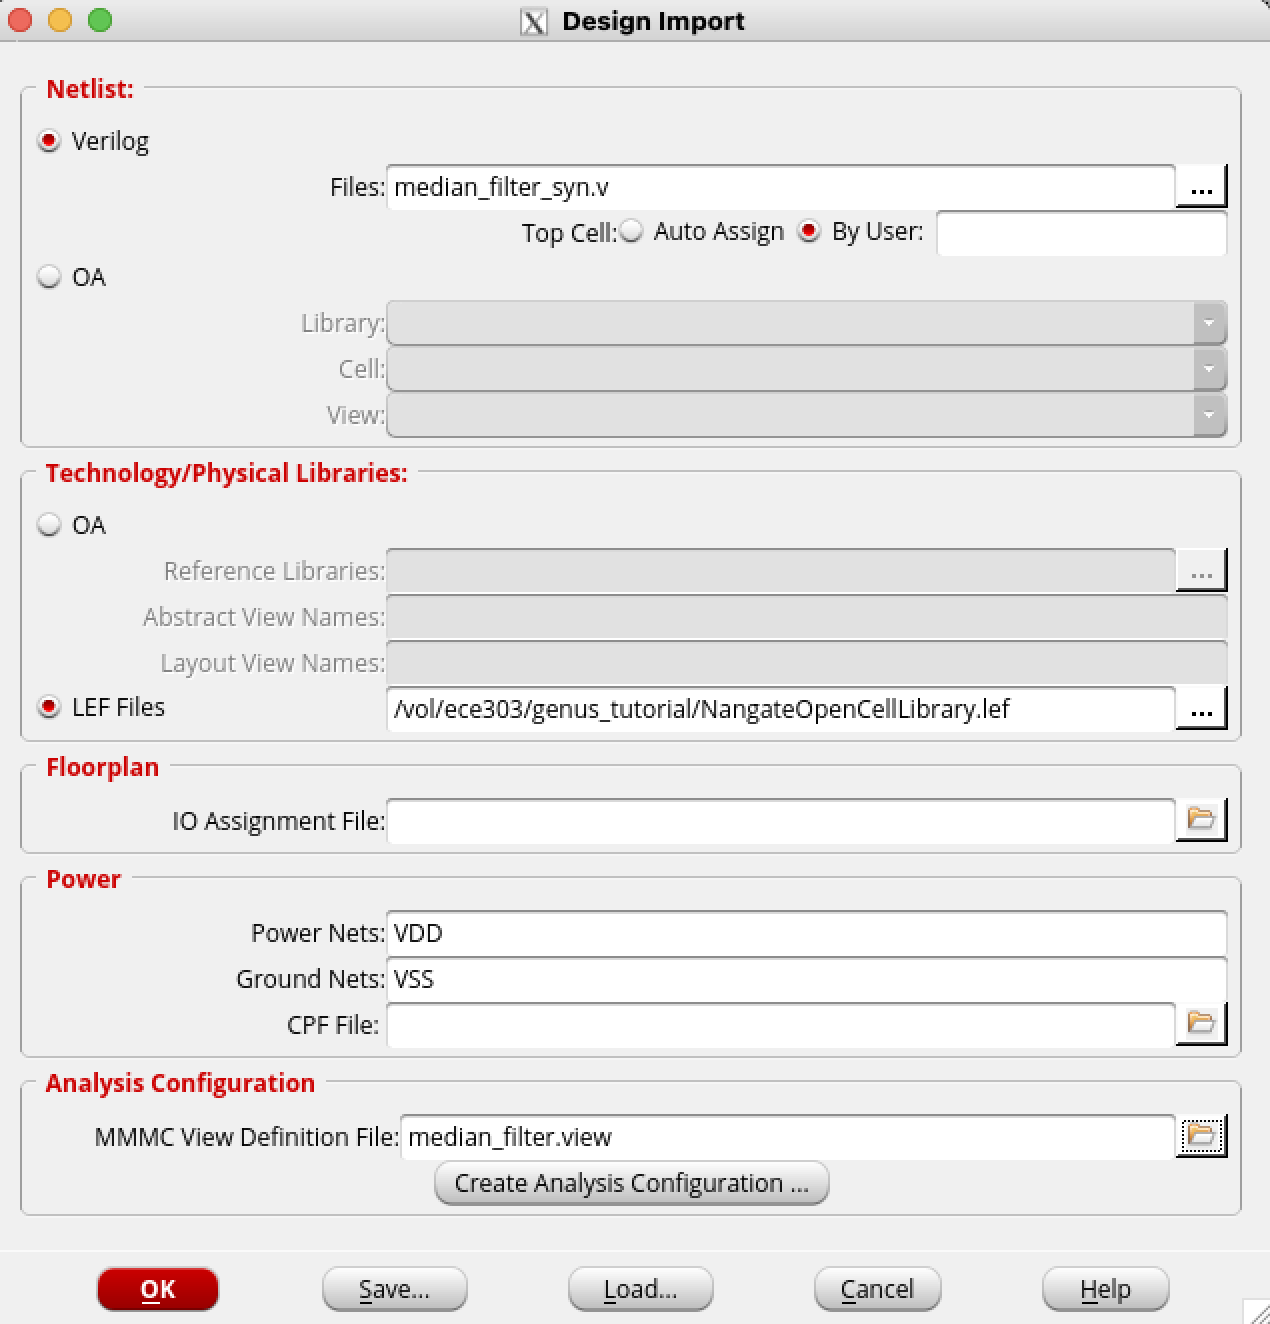
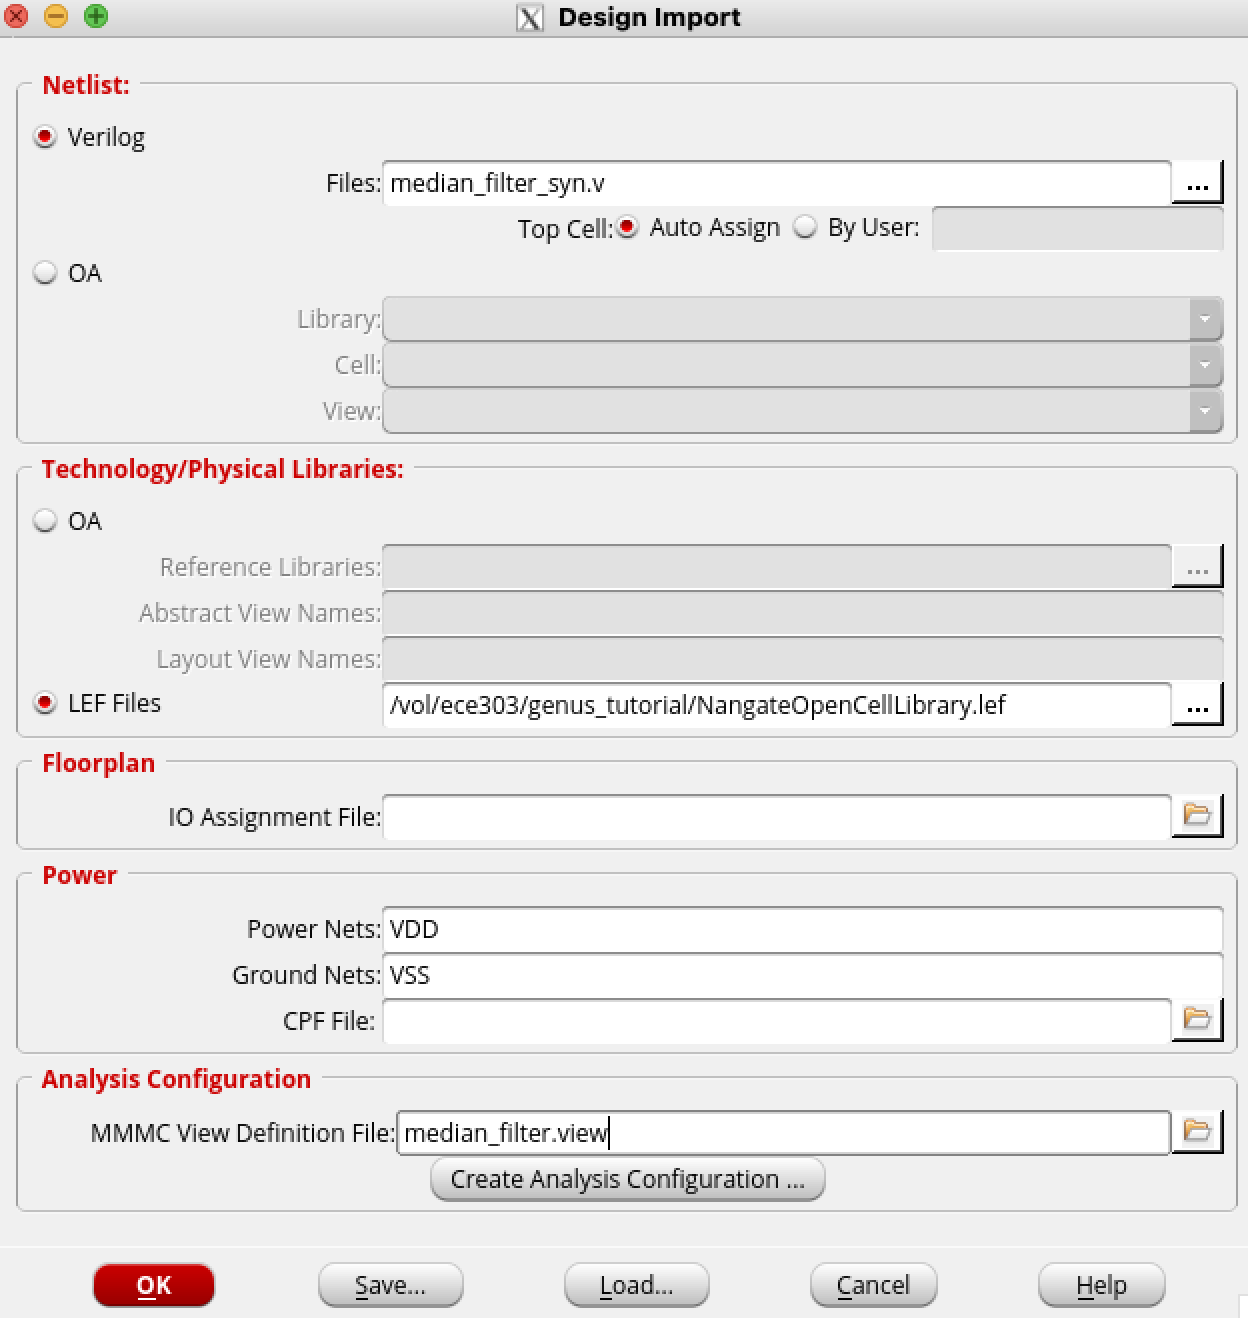
README: touchup

diff --git a/README.md b/README.md
@@ -14,9 +14,9 @@ By default, we have this directory structure
 ├── median_filter/
 │   ├── Backend/
 │   │   ├── median_filter_syn.v
-│   │   └── median_pixel_filter.view
+│   │   └── median_filter.view
 │   └── Frontend/
-│       ├── median_pixel_filter.sdc
+│       ├── median_filter.sdc
 │       └── Synthesis/
 │           └── median_filter_syn.v
 └── README.md
@@ -26,12 +26,12 @@ directory as follows. (get rid of the `_syn` files).
 ```
 ./median_filter/
 ├── Backend/
-│   └── median_pixel_filter.view
+│   └── median_filter.view
 └── Frontend/
     ├── median_filter_v2.sv
     ├── median_kernel_calc.sv
     ├── pixel_pkg.sv
-    ├── median_pixel_filter.sdc
+    ├── median_filter.sdc
     └── Synthesis/
 ```
 Where `.` is your present working directory. Note that everything with a `/` after it is a directory.
@@ -204,7 +204,7 @@ module my_module(something_i, something_o, VDD, VSS);
 
 Note that there are other ways to do power and ground definition, but this is what we'll go with for now.
 ### View file
-Before we go any further, we're going to need to make a view file. This is a multi-mode multi-corner file that specifies a lot of testing-related things, specifically related to testing under different operational states and physical conditions (as chip timing depends on many factors such as voltage supplied and temperature). MMMC means we test against multiple of these factors at the same time. In this file we create RC corners which define multipliers that degrade chip performance by modifying the resistance and capacitance of extracted parasitics. We also define operating conditions which specify process (manufacturing variation which affects switching speed), voltage, and termperature which all affect chip performance. We'll name ours `median_filter.view`
+Before we go any further, we're going to need to make a view file. This is a multi-mode multi-corner file that specifies a lot of testing-related things, specifically related to testing under different operational states and physical conditions (as chip timing depends on many factors such as voltage supplied and temperature). MMMC means we test against multiple of these factors at the same time. In this file we create RC corners which define multipliers that degrade chip performance by modifying the resistance and capacitance of extracted parasitics. We also define operating conditions which specify process (manufacturing variation which affects switching speed), voltage, and temperature which all affect chip performance. We'll name ours `median_filter.view`
 ```tcl
 # Version:1.0 MMMC View Definition File
 # Do Not Remove Above Line
@@ -272,8 +272,17 @@ To import your design
 	- Ground Nets: VSS
  - Set the MMMC view file to the view file we just created
 
+Your dialog window should look like this
+![DesignImport](./images/design_import.png)
 
 From there you should be good to click OK
+
+If you are resuming from a previous session
+- File -> Restore Design
+- Restore Design File: SOMETHING.enc
+	- the enc file is the output that you get whenever you run `saveDesign`
+
+![DesignRestore](./images/design_restore.png)
 ### Configuration
 First, we need to set our design mode. Because we are using a 45 nanometer PDK
 ```tcl
@@ -322,21 +331,22 @@ globalNetConnect VSS -type tielo
 Now, let's edit our pin locations in the GUI
 - Edit -> Pin Editor
 - Ex. allocate output signal by setting
-	- Side/Edge: Right,
+	- Spread: from Center (SET THIS FIRST)
+	- Side/Edge: Right
 	- Layer M3 layer
-	- Spread: from Center,
-	- Spacing: 2 micron
+	- Spacing: 20 micron (it might change your number a bit, just make sure that the pins are actually well spaced out in the final design. You could also just pick a different number, so long as your pins aren't excessively bunched up)
 	- Use: SIGNAL
-- Ex. allocate input signals by setting
+- Ex. allocate input signals (including clock and reset) by setting
+	- Spread: from Center
 	- Side/Edge: Left
 	- Layer M3 layer,
-	- Spread: from Center
-	- Spacing 2 micron
+	- Spacing 20 micron (same as before)
 	- Use: SIGNAL
 - Power and ground pins allocated on top and bottom (M4 layer)
 	- Location: Spread (Type: From Center)
-	- Spacing 0.28
-Be sure to check your terminal for error messages. You may see some errors regarding negative values being deprecated. In which case, set the Start to end Direction to the opposite of whatever it was (usually this means setting it to Counterclockwise)
+	- Spacing: Doesn't really matter, just leave at default
+Your window should look something like this when doing your input pins
+![PinAssignment](./images/pin_assignment.png)
 
 With our floorplan now done, let's save our design
 ```tcl
@@ -504,16 +514,33 @@ create_ccopt_clock_tree_spec
 # send it :)
 ccopt_design
 ```
+NOTE: THIS IS OPTIONAL AND TAKES A MINUTE TO LOAD SO SKIP IT IF YOU ARE SHORT ON TIME
 
-Now open the Clock Browser from the GUI.  Click OK and you will see a window with the generated clock tree in the design. From here, let's do some checking, optimizing, and then save our work
+
+Now open the Clock Browser from the GUI. (Clock->CCopt Clock Tree Debugger) Click OK on the next popup window and you will see a window with the generated clock tree in the design.
+![ClockTree](./images/clock_tree.png)
+
+BACK TO THINGS WE ACTUALLY NEED TO DO
+
+From here, let's do some checking, optimizing, and then save our work
 ```
-checkPlace alu.checkPlace
+# Outputs a file called mpf.checkPlace that details any placement violations we might have
+checkPlace mpf.checkPlace
+
+# Run timing, this time post clock tree synthesis
 timeDesign -postCTS -numPaths 200
+# Same thing for hold
 timeDesign -postCTS -hold -numPaths 200
+
+# Optimization pass
 optDesign -postCTS -numPaths 200
 optDesign -postCTS -hold -numPaths 200
+
+# Re-time. Note: optional
 timeDesign -postCTS -hold -numPaths 200
 timeDesgn -postCTS -numPaths 200
+
+# Save your work
 saveDesign <my_module>_clk.enc
 ```
 ### Routing
